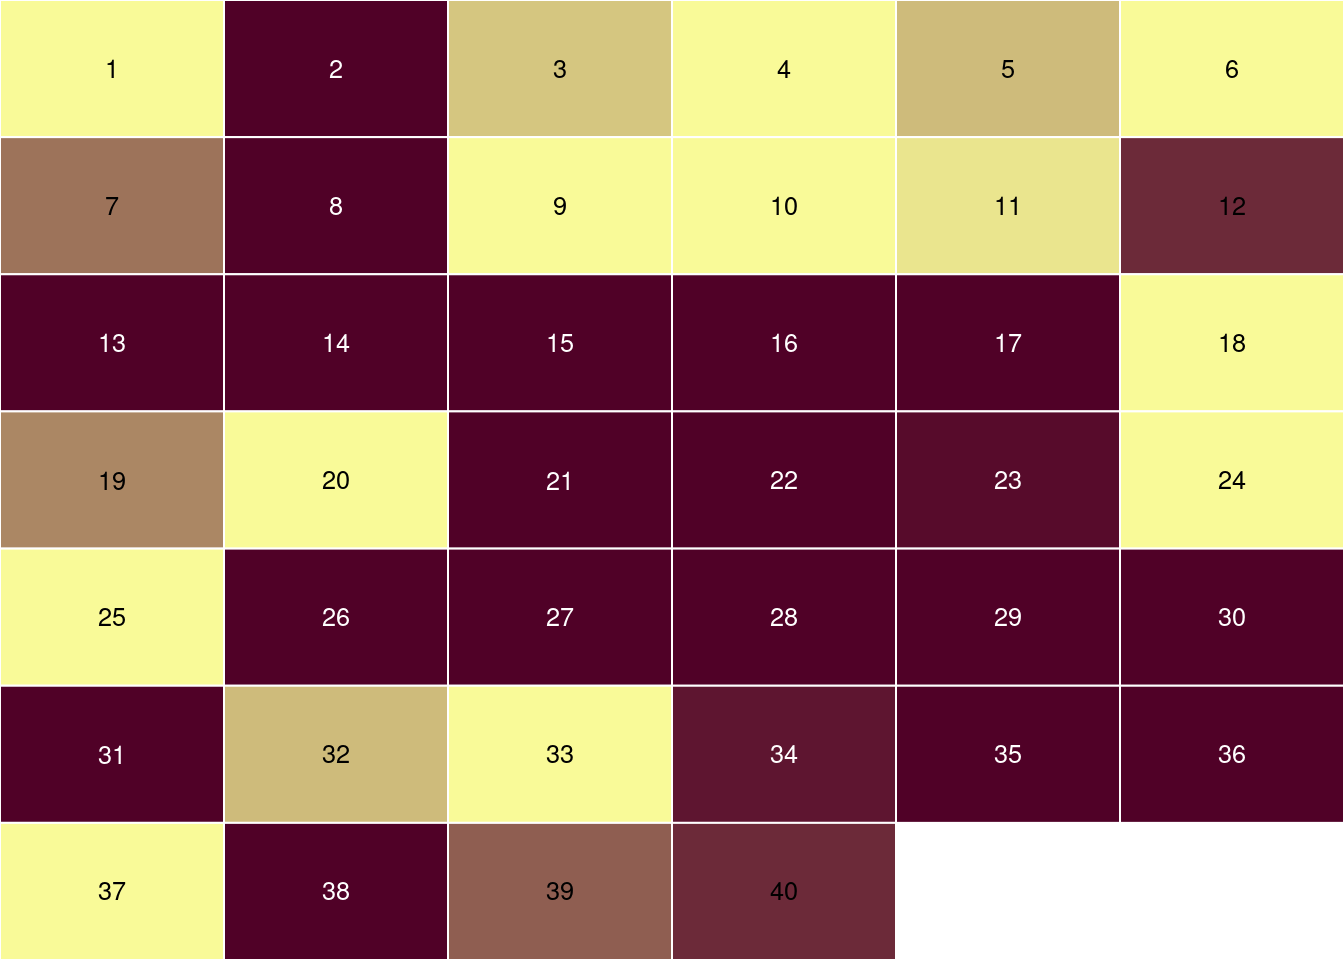
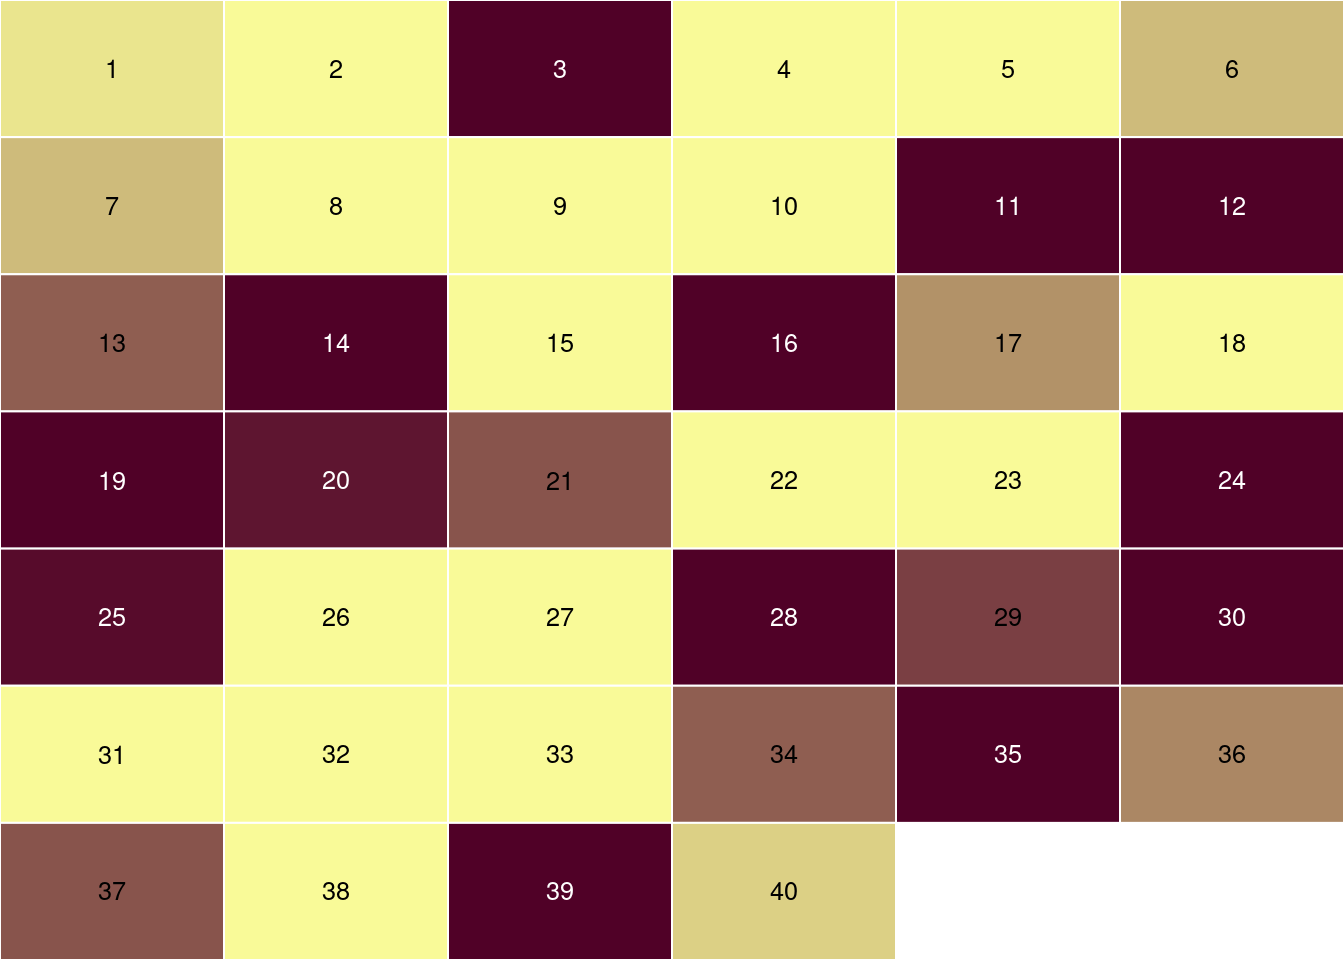
deploy: 7b6e92331f092e4f3294bc9dd6f939f904938523

diff --git a/2020/04/21/insilecomisc-0.4.0-part-2/2/index.html b/2020/04/21/insilecomisc-0.4.0-part-2/2/index.html
@@ -253,20 +253,21 @@ packageVersion(&quot;inSilecoMisc&quot;)
 <p>I wrote <a href="https://insileco.github.io/inSilecoMisc/reference/scaleWithin.html"><code>scaleWithin()</code></a> to handle color scales for a specific yet frequent situation. Let us say that I have 40 percentage values – meaning 0 to 100 – in a vector <code>val</code>…</p>
 <pre class="r"><code>val &lt;- runif(40, 0, 100)
 val
-#R&gt;  [1]  6.138540 72.457081 38.566776  6.060084 40.353870  9.553400 50.948455
-#R&gt;  [8] 94.593950  7.418465 27.833459 33.891706 63.580170 73.473016 95.674149
-#R&gt; [15] 74.992428 84.930649 76.186293 20.344803 48.360441  9.948559 84.987648
-#R&gt; [22] 85.310178 67.412621 17.121198  6.163382 93.642914 93.976717 82.865956
-#R&gt; [29] 87.069086 90.317063 71.561671 40.500171  7.513903 66.453054 86.199373
-#R&gt; [36] 90.333062 21.787596 87.483606 54.930471 63.184609</code></pre>
+#R&gt;  [1] 34.4113984 13.4866915 92.8715147  5.3121220 27.1606004 40.8061766
+#R&gt;  [7] 40.0502665  1.5105773 29.2588300 26.0742980 97.7518917 86.0721554
+#R&gt; [13] 54.0564832 92.5243937 29.8968039 99.0029562 46.3874139  8.2526904
+#R&gt; [19] 88.8415605 65.2371570 55.6944733  0.5369147  6.6801395 68.7145035
+#R&gt; [25] 67.8646429 11.3777416  4.6212113 86.3396509 59.1665323 82.3123295
+#R&gt; [31] 22.5999198 16.4362482 26.3740592 54.5466440 71.4963387 47.9352389
+#R&gt; [37] 56.9438841  1.6251057 90.2992671 37.0100735</code></pre>
 <p>… <strong>and</strong> that I wish to create a color scale with 25 tones. I use <a href="http://insileco.github.io/graphicsutils/reference/showPalette.html"><code>showPalette()</code></a> to show the color palette:</p>
 <pre class="r"><code>pal &lt;- colorRampPalette(c(&quot;#f9fa98&quot;, &quot;#500127&quot;))(25)
 graphicsutils::showPalette(pal)</code></pre>
 <p><img src="../../../../../2020/04/21/insilecomisc-0.4.0-part-2/2/index_files/figure-html/unnamed-chunk-3-1.png" width="672" style="display: block; margin: auto;" /></p>
 <p><strong>But</strong> the color scale should be used for the range [30%-70%], meaning that values below 30% should have the lowest values and values above 70%, the highest one. The caption should thus indicate <span class="math inline">\(\geqslant\)</span> 30% and <span class="math inline">\(\leqslant\)</span> 70%. Then the function <code>scaleWithin()</code> is very handy!</p>
 <pre class="r"><code>scaleWithin(val, n = 25, mn = 30, mx = 70)
-#R&gt;  [1]  1 25  6  1  7  1 14 25  1  1  3 21 25 25 25 25 25  1 12  1 25 25 24  1  1
-#R&gt; [26] 25 25 25 25 25 25  7  1 23 25 25  1 25 16 21
+#R&gt;  [1]  3  1 25  1  1  7  7  1  1  1 25 25 16 25  1 25 11  1 25 23 17  1  1 25 24
+#R&gt; [26]  1  1 25 19 25  1  1  1 16 25 12 17  1 25  5
 graphicsutils::showPalette(pal[scaleWithin(val, n = 25, mn = 30, mx = 70)], add_codecolor = FALSE)</code></pre>
 <p><img src="../../../../../2020/04/21/insilecomisc-0.4.0-part-2/2/index_files/figure-html/unnamed-chunk-4-1.png" width="672" style="display: block; margin: auto;" /></p>
 <p>Even though this function is pretty useful – at least I think it is! – I had a

diff --git a/tips/trick_or_tips/trick_or_tips004/index.html b/tips/trick_or_tips/trick_or_tips004/index.html
@@ -362,10 +362,10 @@ microbenchmark(nchar(vec)&gt;0, !!nchar(vec), nchar(vec)&amp;1, nzchar(vec),
   times = 1000L)
 #R&gt; Unit: nanoseconds
 #R&gt;            expr  min   lq   mean median   uq   max neval
-#R&gt;  nchar(vec) &gt; 0 1100 1200 1482.4   1300 1400 29100  1000
-#R&gt;    !!nchar(vec) 1200 1300 1652.8   1400 1500 57500  1000
-#R&gt;  nchar(vec) &amp; 1 1200 1300 1653.6   1400 1500 39200  1000
-#R&gt;     nzchar(vec)    0    0   50.4      0  100  2900  1000</code></pre>
+#R&gt;  nchar(vec) &gt; 0 1100 1200 1526.2   1400 1700 17900  1000
+#R&gt;    !!nchar(vec) 1200 1300 1606.6   1500 1800 13000  1000
+#R&gt;  nchar(vec) &amp; 1 1200 1300 1625.1   1500 1800 17000  1000
+#R&gt;     nzchar(vec)    0    0   83.6    100  100 12000  1000</code></pre>
 <p>Yep yep!<code>nzchar()</code> is indeed way faster 🚀!</p>
 </div>
 <div id="do-you-need-to-use-return" class="section level2">
@@ -400,9 +400,9 @@ foo2 &lt;- function(x) {
 }
 microbenchmark(foo(4), foo2(4), times = 1e5)
 #R&gt; Unit: nanoseconds
-#R&gt;     expr min  lq     mean median  uq      max neval
-#R&gt;   foo(4) 300 500 1030.714    500 600 21049700 1e+05
-#R&gt;  foo2(4) 200 300  527.635    300 400  4490300 1e+05</code></pre>
+#R&gt;     expr min  lq    mean median  uq      max neval
+#R&gt;   foo(4) 300 400 838.846    500 600 17104800 1e+05
+#R&gt;  foo2(4) 200 300 472.347    300 400  2783400 1e+05</code></pre>
 </div>
 <div id="invisible" class="section level2">
 <h2><code>invisible()</code></h2>
